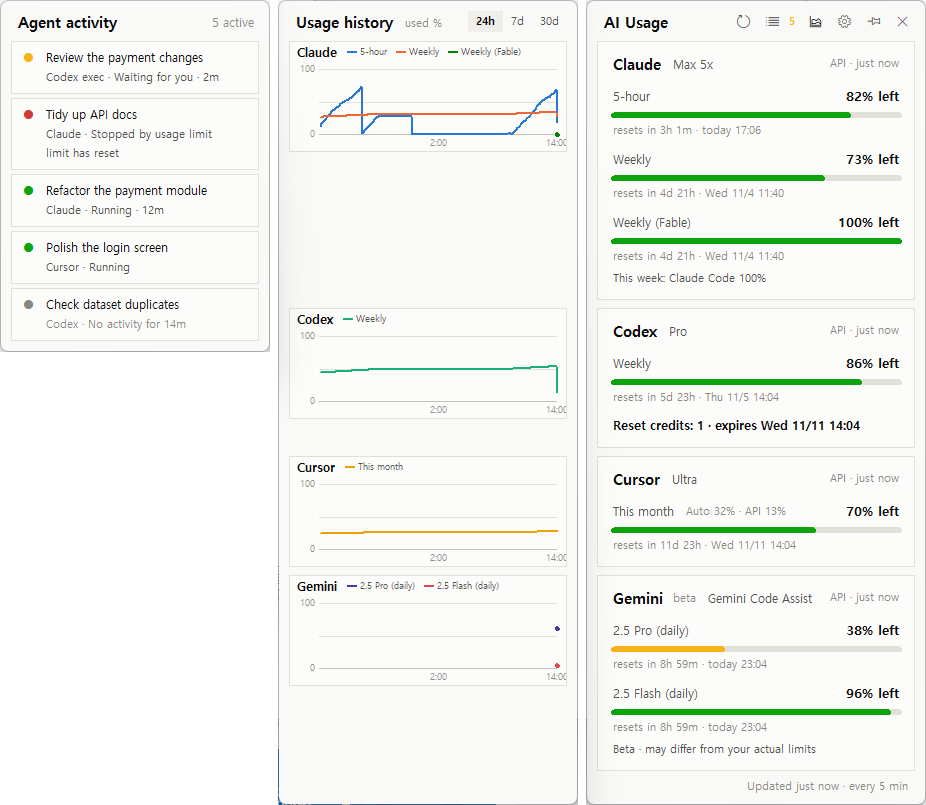
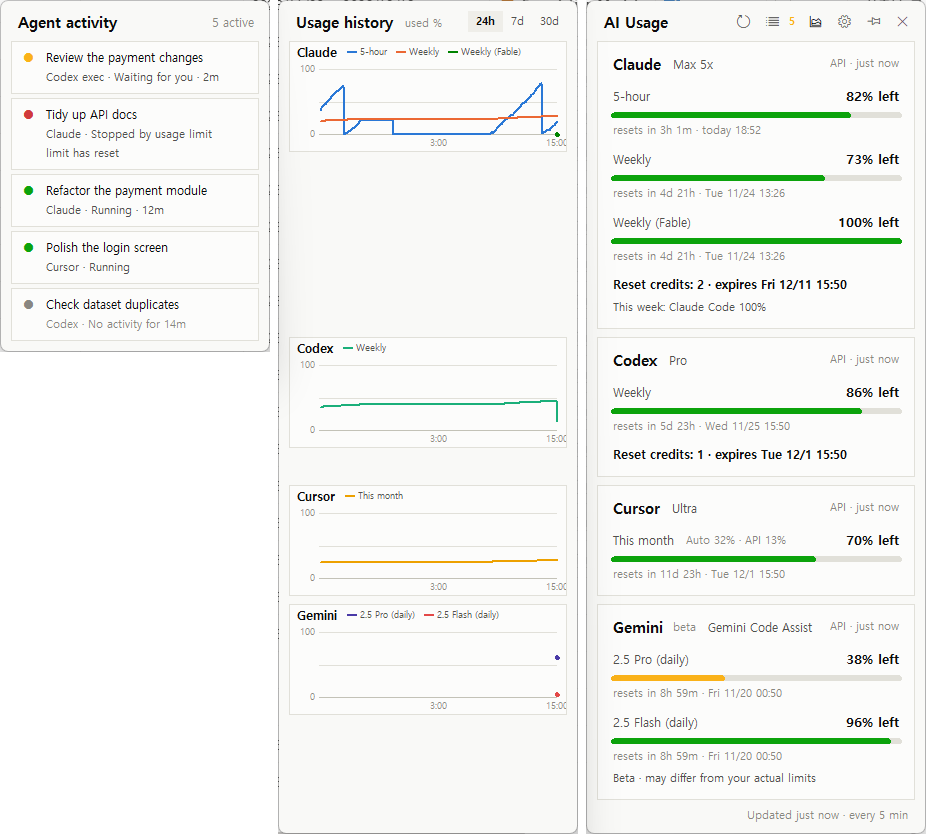
Show Claude reset credits (v0.4.0)
Claude reports limit resets ("cedar_ember") in the same usage answer, but
only when asked with ?cedar_ember=1 by a request that identifies as a
recent Claude Code. The usage request now sends Claude Code's user agent
with the newest Claude Code version installed on this PC (fallback to a
known version), and the card shows the remaining resets and the earliest
end date, like Codex. Nothing is shown when the service says the request
is not eligible.

- Replace the old name-guessing reset finder with an explicit parser
- probe.py uses the same request
- README: Claude reset credits and why the request looks like Claude Code
- Screenshots with Claude reset credits; version 0.4.0

diff --git a/agent_usage/providers/claude.py b/agent_usage/providers/claude.py
@@ -4,18 +4,21 @@ Claude Code CLI 로그인(~/.claude/.credentials.json)으로 Claude Code의 /usa
 claude.ai 웹 주소는 Cloudflare가 프로그램 접속을 막아서 쓰지 않는다.
 접속 토큰은 8시간 정도면 만료된다. 자동 갱신이 켜져 있으면 Claude Code와 같은 방식으로 갱신하고
 새 토큰을 같은 파일에 다시 써서 Claude Code CLI도 계속 쓸 수 있게 한다.
+재설정권(cedar_ember)은 ?cedar_ember=1을 붙이고 최신 Claude Code로 보이는 요청에만 응답에 들어 있어서,
+이 조회는 설치된 Claude Code 버전으로 Claude Code와 같은 사용자 에이전트를 보낸다.
 """
 from __future__ import annotations
 
 import logging
 import os
+import re
 import time
 
 import requests
 
 from ..i18n import t
 from ..models import ResetCredits, Usage, Window
-from ._util import USER_AGENT, HOME, LoginProblem, Options, epoch, read_json, write_json_atomic
+from ._util import HOME, LoginProblem, Options, as_number, epoch, read_json, write_json_atomic
 
 log = logging.getLogger("agent_usage")
 
@@ -25,11 +28,30 @@ EXPERIMENTAL = False
 
 CLAUDE_DIR = os.environ.get("CLAUDE_CONFIG_DIR") or os.path.join(HOME, ".claude")
 CRED_PATH = os.path.join(CLAUDE_DIR, ".credentials.json")
-USAGE_URL = "https://api.anthropic.com/api/oauth/usage"
+USAGE_URL = "https://api.anthropic.com/api/oauth/usage?cedar_ember=1"
 TOKEN_URL = "https://platform.claude.com/v1/oauth/token"
 CLIENT_ID = "9d1c250a-e61b-44d9-88ed-5944d1962f5e"   # Claude Code CLI (공개 클라이언트)
+CLI_VERSION_FALLBACK = "2.1.326"   # 설치된 Claude Code를 못 찾을 때 (너무 오래된 버전이면 재설정권을 주지 않는다)
+_VERSION = re.compile(r"\d+\.\d+\.\d+")
 
 ORDER = ["five_hour", "seven_day"]
+
+
+def _cli_version() -> str:
+    """설치된 Claude Code 중 가장 새 버전 (기본 설치 폴더와 npm 설치를 본다)."""
+    found = []
+    try:
+        found += os.listdir(os.path.join(HOME, ".local", "share", "claude", "versions"))
+    except OSError:
+        pass
+    pkg = os.path.join(os.environ.get("APPDATA", ""), "npm", "node_modules", "@anthropic-ai", "claude-code",
+                       "package.json")
+    try:
+        found.append(str(read_json(pkg).get("version") or ""))
+    except (OSError, ValueError, AttributeError):
+        pass
+    versions = [v for v in found if _VERSION.fullmatch(v)]
+    return max(versions, key=lambda v: tuple(map(int, v.split(".")))) if versions else CLI_VERSION_FALLBACK
 
 
 def detect() -> bool:
@@ -106,7 +128,7 @@ def fetch(opts: Options) -> Usage:
         "Authorization": f"Bearer {token}",
         "anthropic-beta": "oauth-2025-04-20",
         "Content-Type": "application/json",
-        "User-Agent": USER_AGENT,
+        "User-Agent": f"claude-cli/{_cli_version()} (external, cli)",    # 재설정권을 받으려면 Claude Code로 보여야 한다
     })
     if resp.status_code == 401:
         return usage.fail(t("err_expired", title="Claude"), t("hint_claude_login"))
@@ -135,9 +157,7 @@ def parse(usage: Usage, d: dict) -> None:
         usage.extra.append(t("week_breakdown",
                              rows=" · ".join(f"{r['display_name']} {r['percent']:.0f}%" for r in rows)))
 
-    rc = _find_reset_credits(d)
-    if rc:
-        usage.reset_credits = rc
+    usage.reset_credits = _reset_credits(d.get("cedar_ember"))
 
 
 def _parse_limits(usage: Usage, limits: list) -> None:
@@ -180,20 +200,15 @@ def _parse_legacy(usage: Usage, d: dict) -> None:
     usage.windows.sort(key=lambda w: ORDER.index(w.key) if w.key in ORDER else len(ORDER))
 
 
-def _find_reset_credits(d: dict) -> ResetCredits | None:
-    """재설정권. 2026-10 기준 이 주소의 응답에는 없다. 생기면 잡히도록 이름에 reset이 들어간 개수 항목을 찾는다."""
-    for key, val in d.items():
-        k = key.lower()
-        if "reset" not in k or k.endswith("resets_at"):
-            continue
-        if isinstance(val, dict):
-            count = val.get("available_count", val.get("count", val.get("available")))
-            if isinstance(count, (int, float)) and not isinstance(count, bool):
-                exp = next((epoch(v) for kk, v in val.items() if "expire" in kk.lower() and v), None)
-                return ResetCredits(int(count), exp)
-        if isinstance(val, list):
-            exps = [e for e in (epoch(x.get("expires_at")) for x in val if isinstance(x, dict)) if e]
-            return ResetCredits(len(val), min(exps) if exps else None)
-        if isinstance(val, int) and not isinstance(val, bool):
-            return ResetCredits(val)
-    return None
+def _reset_credits(ce) -> ResetCredits | None:
+    """재설정권(cedar_ember): 받은 재설정권들의 남은 횟수 합과 가장 먼저 끝나는 날.
+
+    서버가 이 계정·요청을 대상으로 보지 않으면(eligible이 아님) 줄 자체를 보여 주지 않는다.
+    """
+    if not isinstance(ce, dict) or ce.get("eligible") is not True:
+        return None
+    left = [(as_number(g.get("resets_left")), epoch(g.get("ends_at")))
+            for g in ce.get("grants") or [] if isinstance(g, dict)]
+    left = [(n, end) for n, end in left if n and n > 0]
+    ends = [end for _, end in left if end]
+    return ResetCredits(int(sum(n for n, _ in left)), min(ends) if ends else None)

diff --git a/tests/test_usage.py b/tests/test_usage.py
@@ -241,6 +241,36 @@ class ParseTest(unittest.TestCase):
         self.assertFalse(u.ok)
         self.assertEqual(u.error, i18n.t("err_format"))
 
+    def claude_credits(self, cedar_ember):
+        u = Usage("claude", "Claude")
+        claude.parse(u, {"limits": [{"kind": "session", "percent": 10, "resets_at": None}],
+                         "cedar_ember": cedar_ember})
+        return u.reset_credits
+
+    def test_claude_reset_credits_sum_and_earliest_end(self):
+        rc = self.claude_credits({"eligible": True, "grants": [
+            {"resets_left": 1, "ends_at": "2026-12-10T22:00:00+00:00"},
+            {"resets_left": 1, "ends_at": "2027-03-09T07:59:00+00:00"},
+            {"resets_left": 0, "ends_at": "2026-11-20T00:00:00+00:00"}]})          # 다 쓴 것은 빼고
+        self.assertEqual(rc.count, 2)
+        self.assertEqual(rc.expires_at, claude.epoch("2026-12-10T22:00:00+00:00"))
+
+    def test_claude_reset_credits_none_left_and_not_eligible(self):
+        self.assertEqual(self.claude_credits({"eligible": True, "grants": []}).count, 0)
+        self.assertIsNone(self.claude_credits({"eligible": False, "ineligible_reason": "surface", "grants": []}))
+        self.assertIsNone(self.claude_credits(None))
+
+    def test_claude_cli_version_is_the_newest_installed(self):
+        home, appdata = tempfile.mkdtemp(), tempfile.mkdtemp()
+        versions = os.path.join(home, ".local", "share", "claude", "versions")
+        os.makedirs(versions)
+        for name in ("2.1.99", "2.1.326", "2.1.304", "notes.txt"):
+            open(os.path.join(versions, name), "w").close()
+        with mock.patch.object(claude, "HOME", home), mock.patch.dict(os.environ, {"APPDATA": appdata}):
+            self.assertEqual(claude._cli_version(), "2.1.326")
+        with mock.patch.object(claude, "HOME", tempfile.mkdtemp()), mock.patch.dict(os.environ, {"APPDATA": appdata}):
+            self.assertEqual(claude._cli_version(), claude.CLI_VERSION_FALLBACK)
+
     def test_cursor_on_demand_only_is_not_an_error(self):
         def on_demand_only(opts):
             u = Usage("cursor", "Cursor")

diff --git a/tools/probe.py b/tools/probe.py
@@ -70,12 +70,14 @@ def probe_codex():
 
 
 def probe_claude():
+    sys.path.insert(0, os.path.dirname(os.path.dirname(os.path.abspath(__file__))))
+    from agent_usage.providers.claude import USAGE_URL, _cli_version     # 앱과 같은 요청 (재설정권 포함)
     oauth = json.load(open(os.path.expanduser("~/.claude/.credentials.json"), encoding="utf-8"))["claudeAiOauth"]
     show("api.anthropic.com/api/oauth/usage",
-         requests.get("https://api.anthropic.com/api/oauth/usage",
+         requests.get(USAGE_URL,
                       headers={"Authorization": f"Bearer {oauth['accessToken']}",
                                "anthropic-beta": "oauth-2025-04-20",
-                               "User-Agent": "agent-usage-tray"}, timeout=15))
+                               "User-Agent": f"claude-cli/{_cli_version()} (external, cli)"}, timeout=15))
 
 
 if __name__ == "__main__":

diff --git a/tools/snapshot.py b/tools/snapshot.py
@@ -40,6 +40,7 @@ def fake_usages(ids, opts):
             Window("five_hour", t("w_5h"), 18, now + 3 * 3600 + 120),
             Window("seven_day", t("w_week"), 27, now + 4.9 * 86400),
             Window("seven_day_fable", t("w_week_scoped", name="Fable"), 0, now + 4.9 * 86400)],
+            reset_credits=ResetCredits(2, now + 22 * 86400),
             extra=[t("week_breakdown", rows="Claude Code 100%")], source="API"),
         "codex": Usage("codex", "Codex", "Pro", [Window("weekly", t("w_week"), 14, now + 6 * 86400)],
                        reset_credits=ResetCredits(1, now + 12 * 86400), source="API"),

diff --git a/agent_usage/__init__.py b/agent_usage/__init__.py
@@ -1,3 +1,3 @@
-__version__ = "0.3.0"
+__version__ = "0.4.0"
 APP_NAME = "AI Usage Tray"
 REPO_URL = "https://github.com/Langrits/agent-usage-tray"

diff --git a/README.ko.md b/README.ko.md
@@ -23,12 +23,12 @@
 
 | 서비스 | 보여주는 것 | 사용하는 로그인 |
 |---|---|---|
-| Claude (Pro / Max) | 5시간·주간·모델별 주간 한도 | Claude Code CLI (`~/.claude/.credentials.json`) |
+| Claude (Pro / Max) | 5시간·주간·모델별 주간 한도, 재설정권 | Claude Code CLI (`~/.claude/.credentials.json`) |
 | Codex (ChatGPT 요금제) | 5시간·주간 한도, 재설정권, 크레딧 잔액 | Codex 앱 또는 CLI (`~/.codex/auth.json`). 안 되면 Codex 작업 기록을 읽어요 |
 | Cursor | 이번 결제 주기(Auto / API 비율), 추가 사용 금액 | Cursor 앱 (`state.vscdb`) |
 | Gemini (실험적) | 모델별 하루 요청 한도 | Google 계정으로 로그인한 Gemini CLI (`~/.gemini/oauth_creds.json`) |
 
-Claude 재설정권은 이 프로그램이 쓰는 주소에서 제공하지 않아 표시하지 않아요(2026년 10월 기준).
+Claude는 재설정권을 Claude Code에게만 사용량과 함께 알려 줘요. 그래서 이 프로그램은 Claude 사용량을 조회할 때 이 PC에 설치된 Claude Code 버전으로 Claude Code와 같은 방식으로 요청해요.
 
 ## 설치
 

diff --git a/README.md b/README.md
@@ -23,12 +23,12 @@ A small Windows tray app that shows how much of your **Claude, Codex, Cursor and
 
 | Service | What it shows | Sign-in it uses |
 |---|---|---|
-| Claude (Pro / Max) | 5-hour, weekly, and per-model weekly limits | Claude Code CLI (`~/.claude/.credentials.json`) |
+| Claude (Pro / Max) | 5-hour, weekly, and per-model weekly limits, reset credits | Claude Code CLI (`~/.claude/.credentials.json`) |
 | Codex (ChatGPT plans) | 5-hour / weekly limits, reset credits, credit balance | Codex app or CLI (`~/.codex/auth.json`); falls back to Codex session logs |
 | Cursor | This billing cycle (Auto / API split), on-demand spend | Cursor app (`state.vscdb`) |
 | Gemini (beta) | Daily per-model request limits | Gemini CLI with Google sign-in (`~/.gemini/oauth_creds.json`) |
 
-Claude reset credits are not shown: the endpoint this app uses does not report them (as of October 2026).
+Claude only includes reset credits in its usage answer for Claude Code, so the app's Claude usage request identifies itself the way Claude Code does, with the Claude Code version installed on this PC.
 
 ## Install
 
